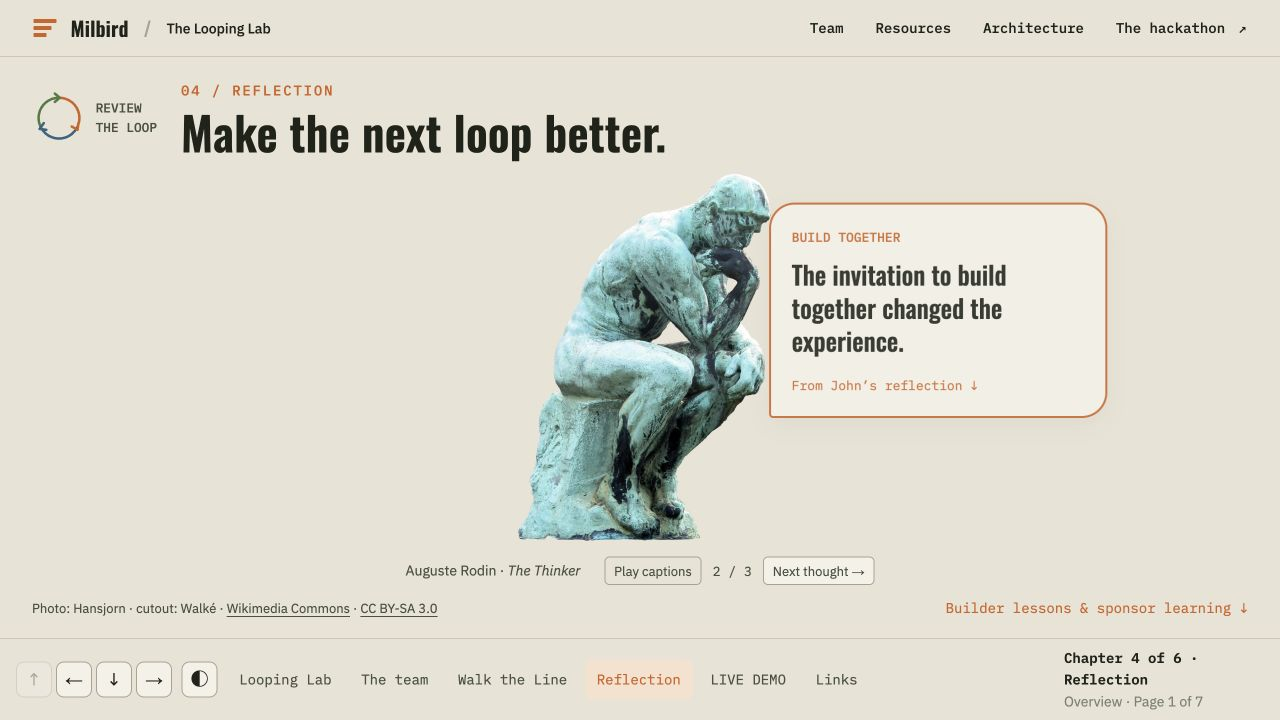
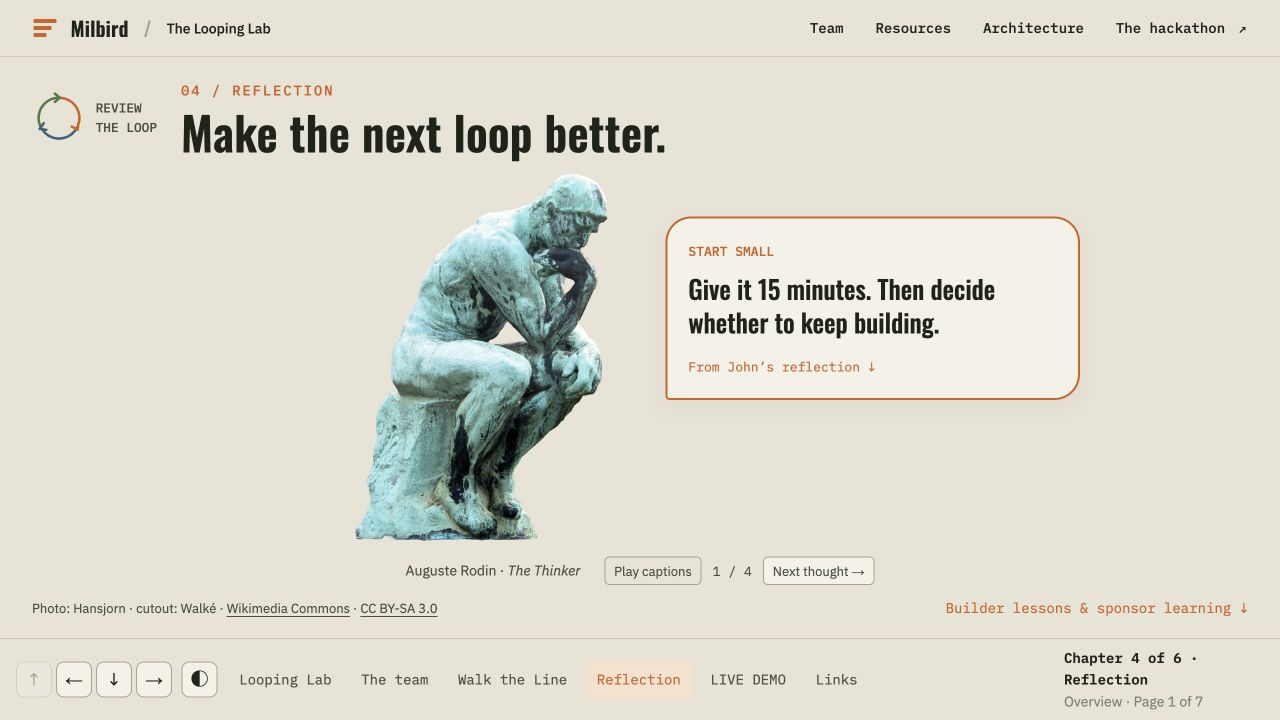
Keep Reflection captions separate from the Thinker

Changed region(s): [[0.2812, 0.2444, 0.875, 0.7639], [0.8438, 0.4889, 0.875, 0.5194]]

diff --git a/presentation/styles.css b/presentation/styles.css
@@ -78,7 +78,7 @@ body{font-family:var(--body);color:var(--ink);background:var(--paper)}.deck-read
 
 .next-event-agent{--ac:var(--comms)}
 
-.reflection-stage{position:relative;width:min(100%,1080px);display:flex;justify-content:center}.reflection-thought{position:absolute;left:62%;top:9%;width:min(32%,340px);padding:1.2rem 1.3rem;border:2px solid var(--comms);border-radius:1.6rem 1.6rem 1.6rem .25rem;background:var(--surface);color:var(--ink);box-shadow:0 8px 22px #0000000b;animation:thought-emerge .5s ease-out}.reflection-thought>span{font:500 .8125rem var(--mono);color:var(--comms)}.reflection-thought p{font:500 clamp(1.2rem,2vw,1.7rem)/1.3 var(--display);margin:.55rem 0 .9rem}.reflection-thought .quiet-link{font-size:.8125rem}.reflection-caption-controls{display:flex;flex-wrap:wrap;justify-content:center;align-items:center;gap:.5rem 1.5rem}.thought-controls{display:flex;align-items:center;gap:.7rem}.thought-controls button{background:transparent;border:1px solid var(--line-strong);border-radius:5px;padding:.3rem .55rem;color:var(--ink-2);cursor:pointer;font:400 .8125rem var(--body)}#reflection-thought-count{font:400 .8125rem var(--mono);white-space:nowrap}.thought-controls button:hover{background:var(--surface)}@keyframes thought-emerge{from{opacity:0;transform:translate(-10px,12px) scale(.96)}to{opacity:1;transform:translate(0,0) scale(1)}}@media(prefers-reduced-motion:reduce){.reflection-thought{animation:none}}@media(max-width:760px){.reflection-thought{left:58%;width:40%;padding:.8rem;top:10%}.reflection-thought p{font-size:1.25rem}.reflection-thought .quiet-link{font-size:.75rem}.reflection-stage>img{margin-right:15%}}@media(max-width:480px){.reflection-thought{left:49%;width:50%;top:8%}.reflection-stage>img{margin-right:30%;height:48vh}.reflection-thought p{font-size:1.15rem}.reflection-caption-controls{flex-direction:column}}
+.reflection-stage{width:min(100%,880px);display:grid;grid-template-columns:minmax(0,1fr) minmax(0,1fr);grid-template-areas:"portrait thought";align-items:start;gap:clamp(1.5rem,4vw,3.5rem)}.reflection-stage>img{grid-area:portrait;justify-self:end;margin:0;min-width:0}.reflection-thought{grid-area:thought;position:relative;align-self:start;width:100%;min-width:0;margin-top:clamp(2rem,7vh,5rem);padding:1.2rem 1.3rem;border:2px solid var(--comms);border-radius:1.6rem 1.6rem 1.6rem .25rem;background:var(--surface);color:var(--ink);box-shadow:0 8px 22px #0000000b;animation:thought-emerge .5s ease-out}.reflection-thought>span{font:500 .8125rem var(--mono);color:var(--comms)}.reflection-thought p{font:500 clamp(1.2rem,2vw,1.7rem)/1.3 var(--display);margin:.55rem 0 .9rem}.reflection-thought .quiet-link{font-size:.8125rem}.reflection-caption-controls{display:flex;flex-wrap:wrap;justify-content:center;align-items:center;gap:.5rem 1.5rem}.thought-controls{display:flex;align-items:center;gap:.7rem}.thought-controls button{background:transparent;border:1px solid var(--line-strong);border-radius:5px;padding:.3rem .55rem;color:var(--ink-2);cursor:pointer;font:400 .8125rem var(--body)}#reflection-thought-count{font:400 .8125rem var(--mono);white-space:nowrap}.thought-controls button:hover{background:var(--surface)}@keyframes thought-emerge{from{opacity:0;transform:translate(-10px,12px) scale(.96)}to{opacity:1;transform:translate(0,0) scale(1)}}@media(prefers-reduced-motion:reduce){.reflection-thought{animation:none}}@media(max-width:760px){.reflection-thought{padding:1rem}.reflection-thought p{font-size:1.25rem}}@media(max-width:600px){.reflection-stage{max-width:420px;grid-template-columns:minmax(0,1fr);grid-template-areas:"portrait" "thought";gap:1rem}.reflection-stage>img{justify-self:center;height:min(42vh,340px);max-height:none}.reflection-thought{margin-top:0}.reflection-thought p{font-size:1.3rem}.reflection-art{gap:1rem}.reflection-caption-controls{flex-direction:column}.thought-controls{flex-wrap:wrap;justify-content:center}}
 
 .next-event-poster-layout{display:grid;grid-template-columns:minmax(0,1fr) minmax(280px,1fr);gap:3rem;align-items:center}.next-event-poster{display:block;max-height:58vh;max-width:100%;width:auto;margin:auto}.next-event-register{justify-self:center;text-align:center}.next-event-register img{background:#fff;display:block;margin:auto;width:246px;height:246px}.next-event-register h3{font:500 2rem var(--display);margin:1rem 0 .5rem}.next-event-register p{line-height:1.5}.next-event-register .quiet-copy{font-size:.875rem}@media(max-width:700px){.next-event-poster-layout{grid-template-columns:1fr}.next-event-poster{max-height:none;width:100%}}
 
